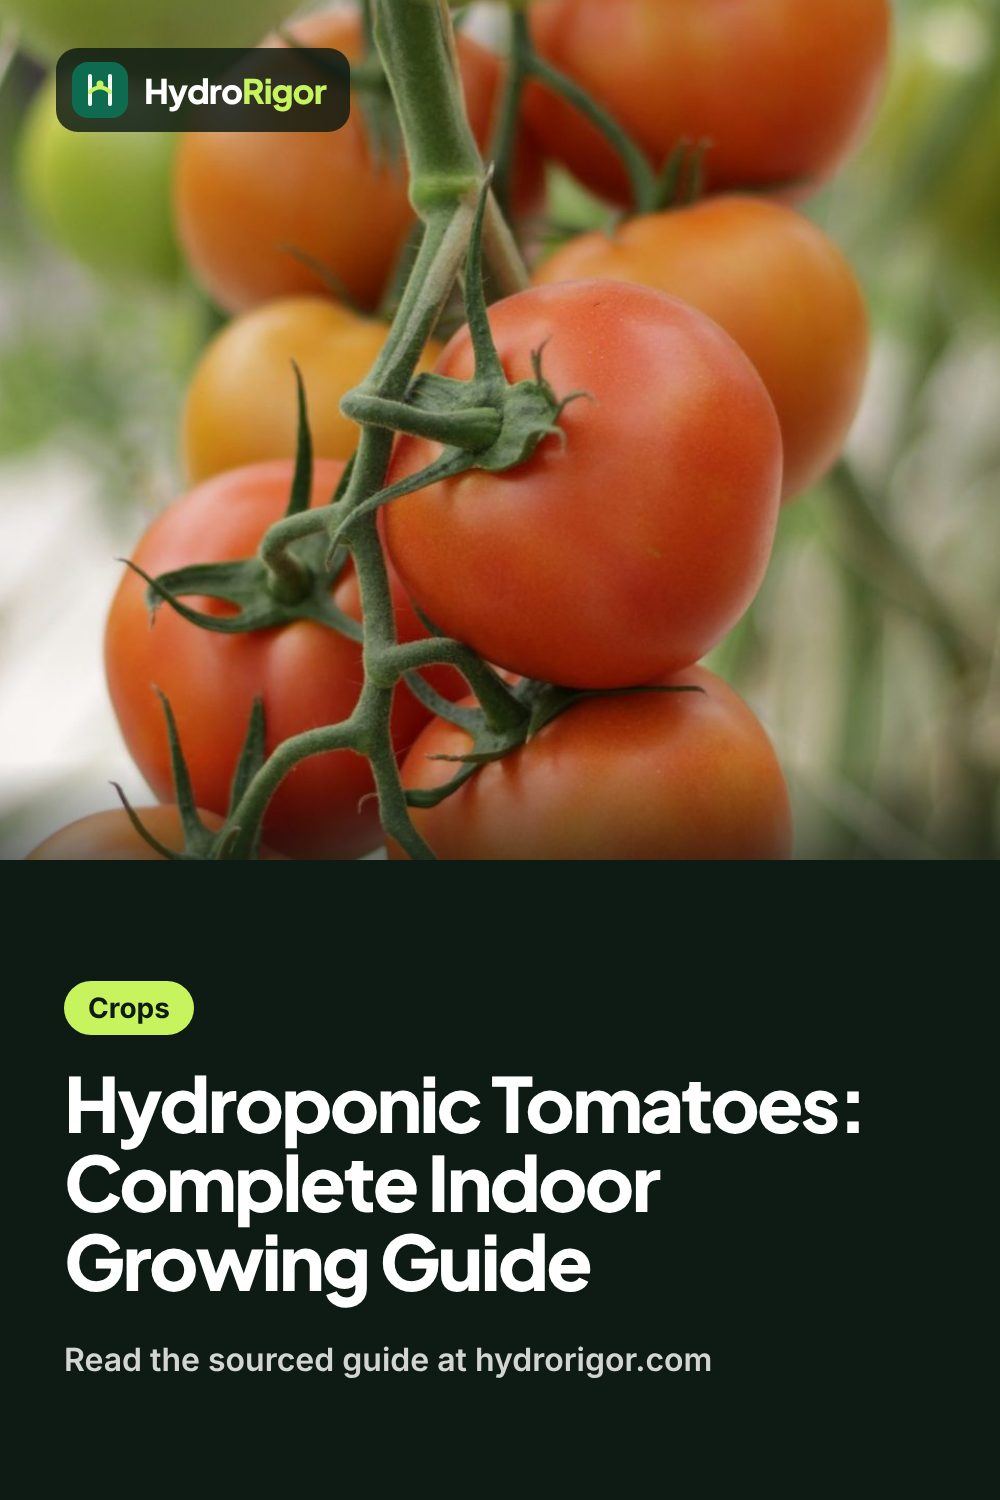
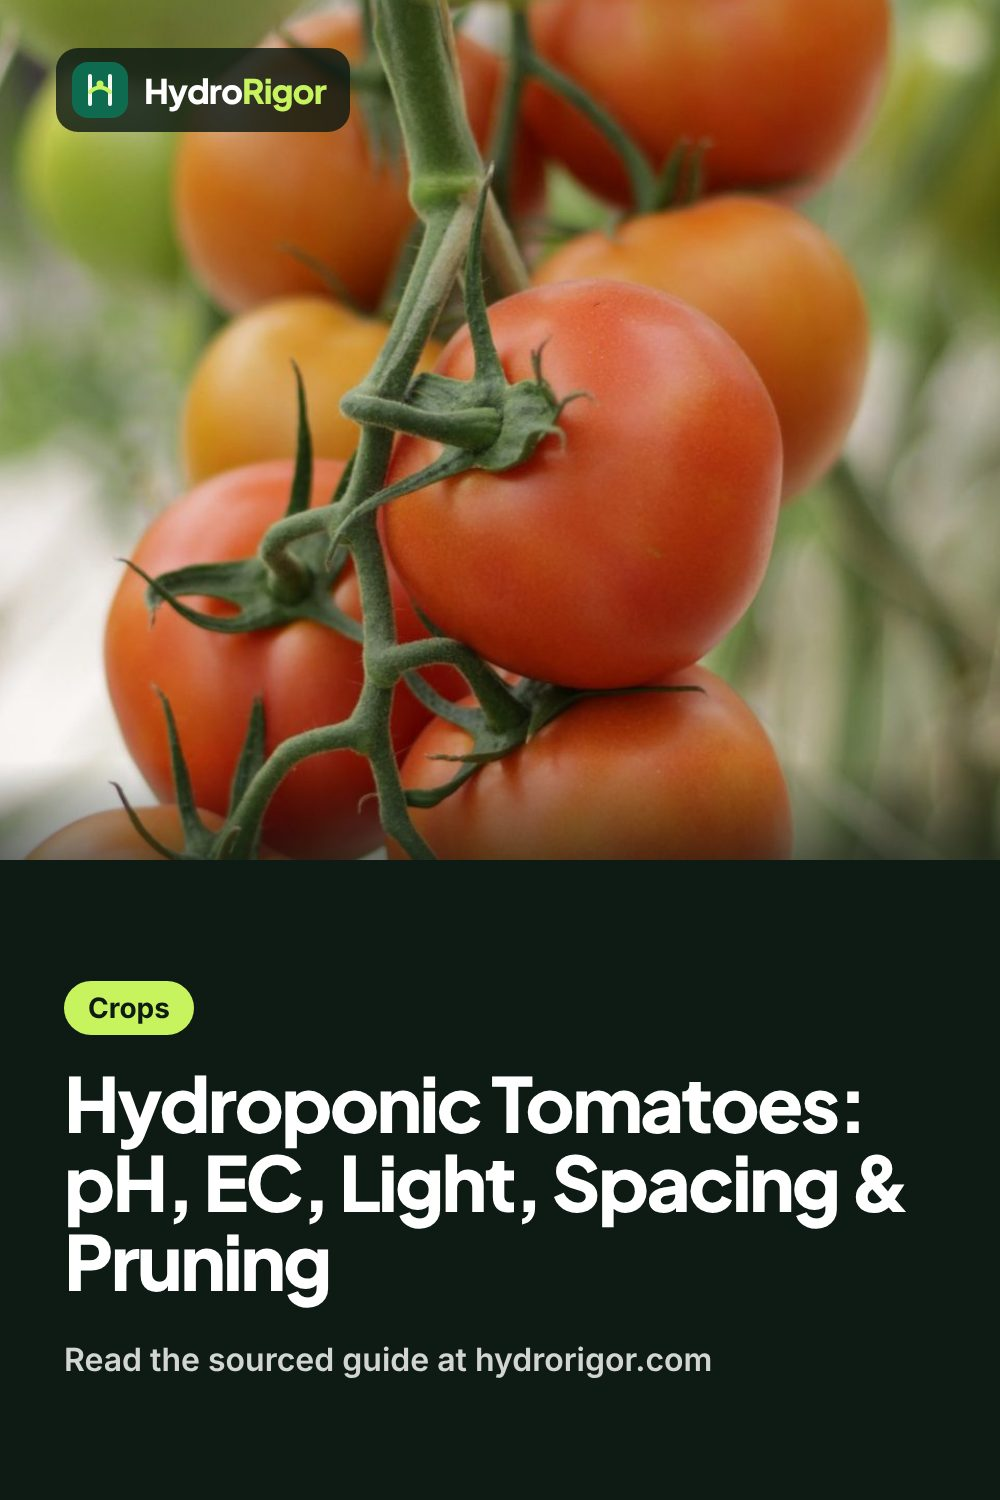
Rebuild hydroponic tomatoes guide (pH, EC, light, spacing, pruning)
Rebuilds /crops/hydroponic-tomatoes/ to the content standard: quick answer with
KeyTargets, system choice, light and temperature, feeding, spacing/pruning/support,
pollination, a 10-step Dutch bucket setup, troubleshooting and FAQ. Two new
diagrams. New sources: Alabama ANR-2955, Virginia Tech SPES-462 and the University
of Tennessee 'Trust' spacing trial (HortTechnology 22(1):44). Share images and a
Pinterest row regenerated; queue item 12 ticked; handoff updated.

Claude-Session: https://claude.ai/code/session_011zSWQvcbjPc6QNdKV82VW5

Changed region(s): [[0.062, 0.7667, 0.899, 0.8893]]

diff --git a/src/data/editorial-sources/m06.ts b/src/data/editorial-sources/m06.ts
@@ -567,6 +567,33 @@ export const m06EditorialSources = [
     sourceType: 'university-research',
     locator: 'Lettuce trial. Materials and methods: conventional NFT channel 18 m long with a 1% slope, 150 L catchment tank, EC held at 1.2 ± 0.2 dS/m, pH kept between 5.5 and 6.5, holes 15 cm apart; flows 1.5 L/min (conventional) and 3.8 then 7.5 L/min (modified). Introduction/discussion: a flow rate between 1 and 2 L/min is widely recommended for NFT (Cooper 1979; Jones 1997); channels no longer than 9 m recommended (Jones 1997); oxygen below 8 mg/L reduces Ca, K and P absorption (Pepkowitz and Shive 1943, cited). Results (Expt. 2): dissolved oxygen fell by up to 0.9 mg/L from inlet to outlet in the conventional channel; outlet solution 0.3–1.4 °C warmer than inlet; tank averaged 28.3 °C (high 38.9 °C), too warm for lettuce roots (cited optimum 13–18 °C)',
   },
+  {
+    id: 'aces-greenhouse-tomato-anr2955',
+    title: 'Greenhouse Tomato Production (ANR-2955)',
+    publisher: 'Alabama Cooperative Extension System (C. Blanchard, J. Pickens, A. da Silva, D. Wells, Auburn University)',
+    url: 'https://www.aces.edu/wp-content/uploads/2023/02/ANR-2955_GreenhouseTomatoProduction_022223L-G.pdf',
+    accessedDate: '2026-11-10',
+    sourceType: 'university-extension',
+    locator: 'ANR-2955 (new January 2023). Seedling Production: transplants in 4 to 6 weeks at 4 to 6 inches high; seedling root zone 84 °F on heat mats. Plant Spacing and Training: 3.5 to 5 sq ft per plant, 16 in between plants in the row and 5 ft between rows; single leader, remove suckers when small and at least once a week; overhead cables 8 to 10 ft above the crop; remove the terminal bud at the wire six weeks before the crop ends. Temperature: day 80 to 85 °F, night printed as "between 65 and 60 degrees F but no lower"; excessive heat causes cracked fruit and reduced fruit set; cold turns leaves purple and curled; 30 to 50 percent shade cloth. Pollination: midday at 60 to 70 percent humidity, three times a week as new flowers develop; bumblebees, mechanical or electric vibrators; leaf blowers least effective. Fertilization and Irrigation: EC 2.0 to 2.5 mS/cm and pH 5.5 to 6.5; about 2 quarts of water per plant per day. Fruit Thinning: slicing types to 4 to 5 fruits per cluster',
+  },
+  {
+    id: 'vt-management-basics-spes462',
+    title: 'Hydroponic Production of Edible Crops: Management Basics (SPES-462NP)',
+    publisher: 'Virginia Cooperative Extension',
+    url: 'https://pubs.ext.vt.edu/SPES/spes-462/spes-462.html',
+    accessedDate: '2026-11-10',
+    sourceType: 'university-extension',
+    locator: 'SPES-462NP (July 21, 2023). Managing Environmental Conditions: tomato production requires higher temperatures (80 °F day/60 °F night), and the optimum may change with growth stage; venting lowers relative humidity and reduces disease; Botrytis and powdery mildew with high humidity and wet leaves; plants supported on a wire system and older leaves removed to improve airflow. Growing Conditions - Nutrition: lack of calcium causes blossom-end rot in tomatoes and peppers; air circulation improves nutrient uptake and distribution; pH must be managed for nutrients to stay available',
+  },
+  {
+    id: 'utk-trust-tomato-density-2012',
+    title: "Optimizing Plant Density and Production Systems to Maximize Yield of Greenhouse-grown 'Trust' Tomatoes",
+    publisher: 'HortTechnology 22(1):44 (University of Tennessee Plateau Research and Education Center study, 2012)',
+    url: 'https://journals.ashs.org/view/journals/horttech/22/1/article-p44.xml',
+    accessedDate: '2026-11-10',
+    sourceType: 'university-research',
+    locator: "Materials and Methods: 'Trust' in perlite bags, Crossville TN greenhouse; in-row spacings 12, 16, 20, 24 and 28 in with rows 4 ft apart; single leader (all suckers removed) versus double leader; plants clipped to a string on an overhead wire, topped at the 10th flower cluster; clusters thinned to four or five fruit; bumblebee pollination; seeded 27 June 2008 and 26 Dec 2008, transplanted at the fourth to fifth true leaf after about 6 weeks (22 Aug 2008 and 7 Feb 2009); harvest began 3 Nov 2008 and 20 Apr 2009 (about 10 weeks after transplant), picked at pink weekly for 12 weeks; temperatures averaged 83/62 °F (fall) and 85/64 °F (spring) day/night. Introduction: indeterminate greenhouse tomatoes typically pruned to one stem; literature cited gives 4–4.3 sq ft per plant. Abstract/conclusion: in-row spacing of 16–20 in, 18 in ideal; closer spacing raises disease and pest risk; Botrytis cinerea can cost a whole double-leader plant",
+  },
 ] as const satisfies readonly M06EditorialSource[];
 
 export const m06EditorialSourceById = new Map(

diff --git a/src/data/m06-content.ts b/src/data/m06-content.ts
@@ -28,7 +28,7 @@ const items = [
   [8, 'articles', 'crops', 'Hydroponic Lettuce: pH, EC, Light & Best Varieties', 'hydroponic-lettuce', 'informational', 'hydroponic lettuce', 'VERIFIED_2026-09-12', 4400, 27, ['uky-hydroponic-lettuce', 'ifas-lettuce-small-systems', 'ifas-lettuce-cultivars', 'kratky-noncirculating-lettuce', 'mu-hydroponic-farming'], ['/tools/ph-ec-targets/']],
   [9, 'articles', 'crops', 'Hydroponic Lettuce Systems Compared: DWC, NFT and Kratky', 'hydroponic-lettuce-systems', 'transactional research', 'hydroponic lettuce systems', 'VERIFIED_2026-09-12', 1000, 28, ['ifas-lettuce-small-systems', 'ifas-lettuce-cultivars', 'mu-hydroponic-farming'], []],
   [10, 'articles', 'crops', 'Hydroponic Lettuce Seeds: Varieties, Germination & Storage', 'hydroponic-lettuce-seeds', 'transactional research', 'hydroponic lettuce seed', 'VERIFIED_2026-09-12', 2400, 20, ['uky-hydroponic-lettuce', 'ifas-lettuce-cultivars', 'ifas-lettuce-small-systems', 'egro-lettuce-tipburn-2023', 'cornell-cea-lettuce-handbook', 'unl-seed-storage-germination', 'illinois-seed-viability', 'sdsu-seed-storage', 'ifas-thermodormancy'], []],
-  [11, 'articles', 'crops', 'Hydroponic Tomatoes: Complete Indoor Growing Guide', 'hydroponic-tomatoes', 'transactional research', 'hydroponic tomatoes', 'VERIFIED_2026-09-12', 1900, 29, ['tennessee-fruiting-crops', 'vt-system-crop-comparisons', 'mu-hydroponic-farming'], ['/tools/ph-ec-targets/']],
+  [11, 'articles', 'crops', 'Hydroponic Tomatoes: pH, EC, Light, Spacing & Pruning', 'hydroponic-tomatoes', 'transactional research', 'hydroponic tomatoes', 'VERIFIED_2026-09-12', 1900, 29, ['tennessee-fruiting-crops', 'aces-greenhouse-tomato-anr2955', 'utk-trust-tomato-density-2012', 'vt-management-basics-spes462', 'vt-system-crop-comparisons', 'purdue-supplemental-light-lettuce', 'osu-ph-ec-guide', 'ifas-hydroponic-tomato-formulation', 'osu-hydro-hints-buckets', 'ifas-volusia-dwc-bucket', 'msstate-blossom-end-rot', 'mu-hydroponic-farming'], ['/tools/ph-ec-targets/']],
   [12, 'articles', 'crops', 'Hydroponic Tomato Seeds: Varieties That Fit Indoor Systems', 'hydroponic-tomato-seeds', 'transactional research', 'hydroponic tomatoes seeds', 'VERIFIED_2026-09-12', 480, 16, ['ifas-tomato-cultivars', 'usu-indoor-tomatoes', 'tennessee-fruiting-crops'], []],
   [13, 'articles', 'nutrients', "Hydroponic Nutrients: pH, EC & Mixing Guide for Beginners", 'hydroponic-nutrients', 'informational', 'hydroponic nutrients', 'VERIFIED_2026-09-12', 3600, 22, ['psu-plant-nutrition', 'mu-nutrient-solutions', 'osu-ph-ec-guide', 'ua-strawberry-irrigation'], ['/tools/ph-ec-targets/', '/tools/nutrient-mixing-calculator/']],
   [14, 'articles', 'nutrients', 'Hydroponic Nutrient Solution: How to Choose, Mix and Use It', 'hydroponic-nutrient-solution', 'transactional research', 'hydroponic nutrients solution', 'VERIFIED_2026-09-12', 720, 25, ['mu-nutrient-solutions', 'psu-nutrient-programs', 'osu-ph-ec-guide'], ['/tools/nutrient-mixing-calculator/']],

diff --git a/.agent/state/CURRENT_HANDOFF.md b/.agent/state/CURRENT_HANDOFF.md
@@ -1,6 +1,6 @@
 # Current Handoff
 
-Updated: 2026-11-09
+Updated: 2026-11-10
 
 ## State
 
@@ -74,6 +74,7 @@ Updated: 2026-11-09
 Guides published by automated runs under `HydroRigor Editorial`. When Najeeb has read one
 and approves, switch its byline to `Najeeb`.
 
+- `/crops/hydroponic-tomatoes/` — "Hydroponic Tomatoes: pH, EC, Light, Spacing & Pruning" (rebuild, 2026-11-10). Targets, system choice, light and temperature, spacing/pruning/support, pollination, a 10-step Dutch bucket setup, troubleshooting and two new diagrams (Dutch bucket cross-section, seed-to-harvest timeline). New sources: Alabama Extension ANR-2955 "Greenhouse Tomato Production" (Auburn, 2023), Virginia Tech SPES-462 "Management Basics" (2023) and the University of Tennessee 'Trust' spacing trial (HortTechnology 22(1):44, 2012). Reused: Tennessee W 844-C, Virginia Tech SPES-466, Purdue HO-283-W, Oklahoma State HLA-6722, UF/IFAS HS796 and Volusia DWC bucket, Oregon State EM 9456, Mississippi State blossom-end rot, Missouri G6986. Notes: (1) sources disagree on pH (5.5–6.0, 5.5–6.5, 5.8–6.2, 6.0–6.5), EC (2.0–2.5, 2.0–3.0, 2.0–4.0) and seed-to-transplant time (Alabama 4–6 weeks, Tennessee 2–4); the page shows them and recommends UF/IFAS pH 5.8–6.2 and Tennessee EC 2.0–3.0. (2) Alabama prints the night temperature as "between 65 and 60 degrees F"; the page treats it as 60–65 °F. (3) Most sources are greenhouse publications; the page says so and gives no dwarf-variety yields or disease treatments. (4) The 350 µmol/m²/s figure is labelled as a worked conversion of DLI 20 over 16 hours. (5) Photo kept (registry tomato truss). Pinterest row: `docs/marketing/pinterest/pins-tomatoes-2026-11-10.csv`.
 - `/crops/hydroponic-basil/` — "Hydroponic Basil: pH, EC, Light & Harvest Guide" (new guide, 2026-11-09). Sources: Oklahoma State HLA-6722 (Table 2), Solis-Toapanta, Fisher and Gómez 2020 (HortScience, University of Florida), Walters, Tarr and Lopez 2023 (PLoS ONE), Walters 2015 (Iowa State research, Greenhouse Grower), Oregon State EM 9457. Gaps stated on the page: no source tested basil in Kratky, none covers basil diseases, and the 16-hour day is a study condition. Photo reuses the registry lettuce-and-herbs frame; an owner photo of real basil would be better.
 - `/crops/nft-hydroponic-strawberries/` — "NFT Hydroponic Strawberries: Slope, Flow, pH & EC Setup" (2026-11-09). Channel slope, flow per channel, channel length, pH/EC, light and a step-by-step build, with two new diagrams. New sources: Purdue "Opportunities in Hydroponics" slides (P. Langenhoven, 2016: slope 1:100 recommended, 1:30–1:40 used; 1 L/min per channel, upper limit 2; channels no longer than 10–15 m) and Sato et al., HortTechnology 17(2):227 (2007: 1–2 L/min widely recommended; 9 m channel limit cited from Jones; oxygen and temperature change along an 18 m channel). Reused: Oregon State EM 9457, Virginia Tech SPES-463, Missouri G6986, University of Arizona CEAC, Cornell, Oklahoma State HLA-6722/6724, Purdue HO-283-W, Illinois, Minnesota. Notes: (1) the sources disagree on slope (Purdue 1:100 vs Oregon State 2% minimum) and EC (Arizona 1.0 or below, Cornell 1.2, Oklahoma State 1.8–2.2); the page shows all and recommends 2% and EC 1.0–1.2. (2) No source gives NFT spacing, an NFT pump schedule or days to harvest for strawberries; the page says so. (3) In this run only the Purdue and HortTechnology pages could be fetched; other figures come from sources already registered. (4) Photo kept (registry strawberries in hanging rows).
 - `/systems/indoor-hydroponic-systems-for-home/` — "Indoor Hydroponic Systems for Home: 6 Types Compared" (2026-11-08). Buyer-oriented: six system types, crop fit, light (DLI) and a what-to-check-before-buying table; no products named or ranked. Sources: UF/IFAS HS1488 and HS1422, Oregon State EM 9453/9455/9456/9457/9458, Oklahoma State HLA-6442/6722/6724, Touliatos et al. 2016, Virginia Tech SPES-466, Kentucky CCD-CP-63, Tennessee W 844-C, Illinois, Missouri G6986, UGA C1315, and one new source: Purdue HO-283-W (DLI by crop type; Indiana greenhouse under 10 mol/m²/day Nov–Feb). Note: light sources differ (Kentucky lettuce 12–17, Purdue leafy greens 15–20, Virginia Tech 17+, Illinois 6–8 hours); the page shows all and explains why. Photo kept (registry home NFT shelf under LEDs). Named product picks wait for an approved affiliate programme.

diff --git a/.agent/state/CURRENT_MILESTONE.md b/.agent/state/CURRENT_MILESTONE.md
@@ -75,7 +75,7 @@ impressions in 28 days).
         more internal links. Search Console (Nov 1–7): 32 impressions, position 15.5,
         0 clicks; previous check 29 impressions, position 10.9. Keep the title (changed 2026-11-06).
 11. [x] New guide `/crops/hydroponic-basil/` (plan ID 41) — published 2026-11-09 ("Hydroponic Basil: pH, EC, Light & Harvest Guide"). hydroponic basil (880, difficulty 11; Ubersuggest 2026-11-03).
-12. [ ] `/crops/hydroponic-tomatoes/` — rebuild. hydroponic tomatoes (1,900, difficulty 29).
+12. [x] `/crops/hydroponic-tomatoes/` — rebuilt 2026-11-10 ("Hydroponic Tomatoes: pH, EC, Light, Spacing & Pruning"). hydroponic tomatoes (1,900, difficulty 29).
 13. [ ] `/best/hydroponic-systems-for-sale/` — rebuild. "hydroponic system sale" 1,600 / 24;
         "hydroponic system for sale" 1,300 / 28.
 14. [ ] `/best/hydroponic-systems-for-beginners/` — rebuild. Search Console: 6 impressions, position 46.5.
